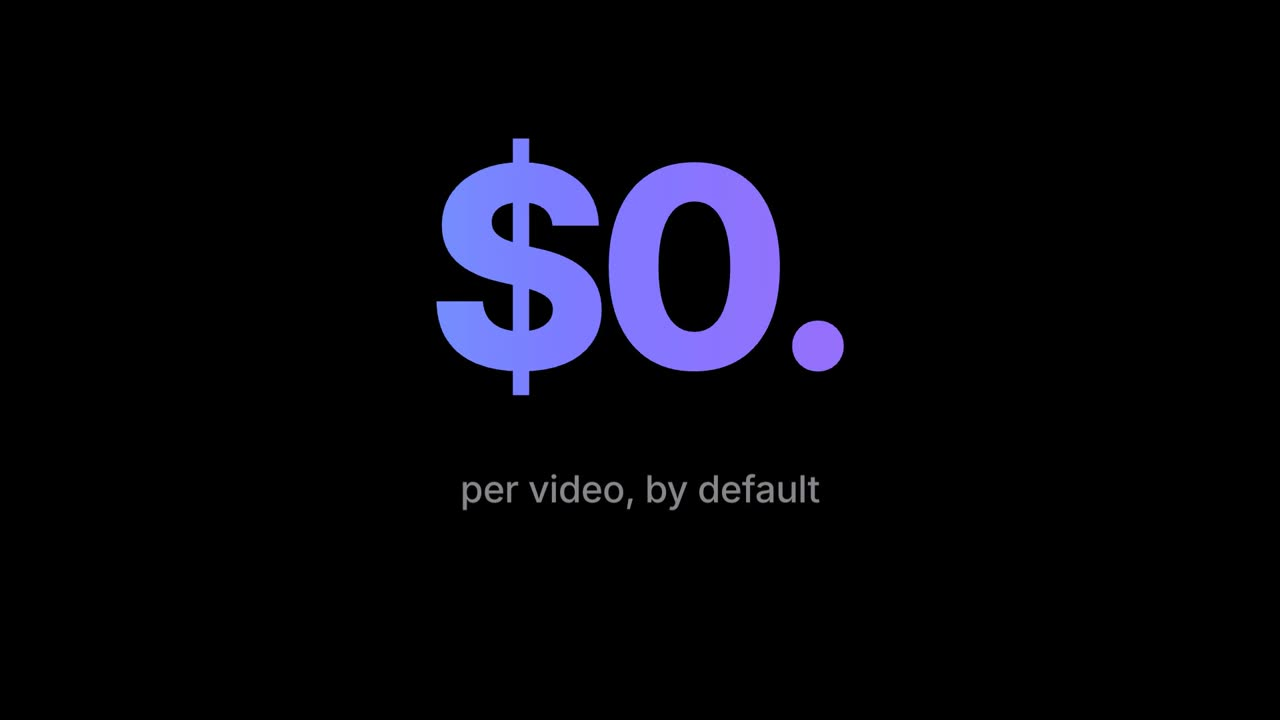
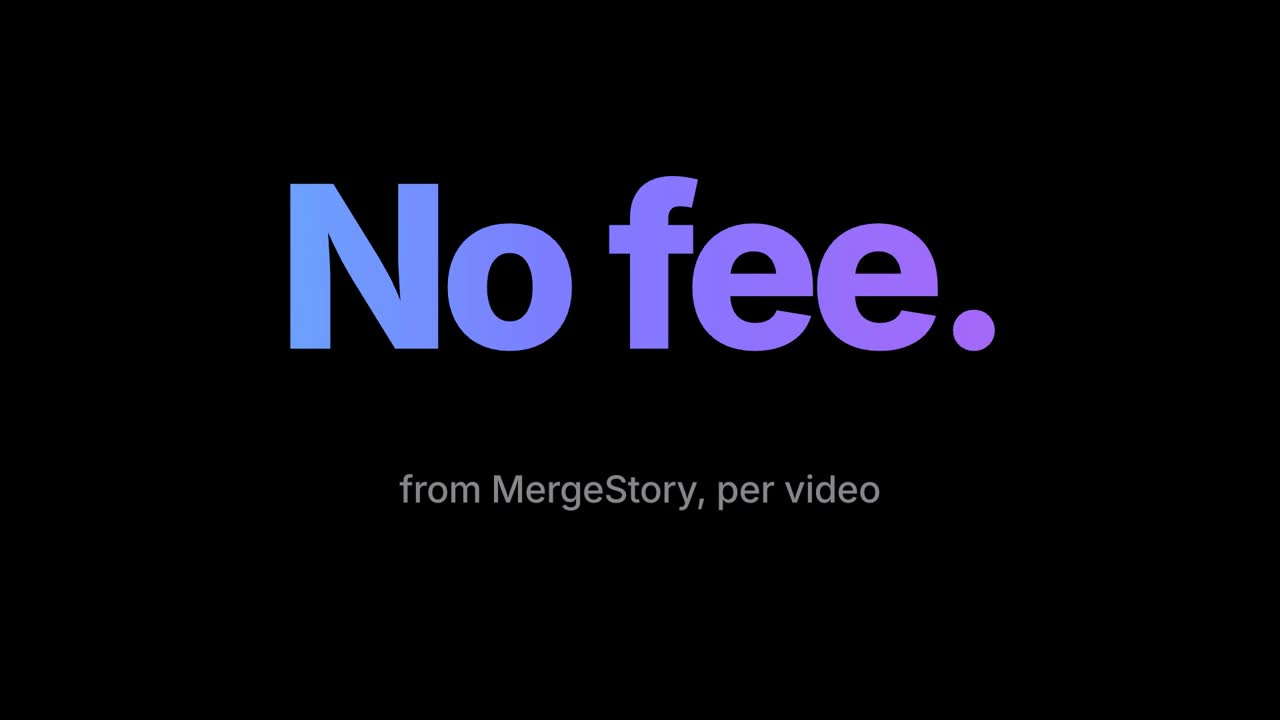
Docs: lead with "No MergeStory fee" and say what the agent's usage costs (#30)
## What changed

- **Website:** the badge and the cost heading say "No MergeStory fee" in
place of "$0". The storyboard card shows about $0.20 in place of
"Varies", with the measured range.
- **README and cost page:** the first lines on cost now name the agent's
usage: about 20 cents per video if you pay per token.
- **Cost film:** the site, the README and the cost page link a new cut
of the film, with a new poster. The new cut says the same as the text:
no fee from MergeStory, and about 20 cents of agent usage per video.

## Why

"$0" was true for MergeStory's own fee. For someone who pays for a
coding agent per token it read as the whole cost, and it is not.

Docs only. No engine change.

Changed region(s): [[0.2188, 0.1833, 0.7812, 0.55], [0.3125, 0.6417, 0.6875, 0.7028]]

diff --git a/docs/index.html b/docs/index.html
@@ -591,7 +591,7 @@ h1 .nl{display:block}h1 .grad.nl{display:table;margin-inline:auto}
 <!-- Hero -->
 <section class="hero" aria-labelledby="h-hero">
 <div class="wrap">
-<a class="eyebrow" href="#cost"><b>New</b><span>$0 per video, by design<sup class="fn-ref" aria-hidden="true">1</sup></span><svg class="i" aria-hidden="true"><use href="#i-right"/></svg></a>
+<a class="eyebrow" href="#cost"><b>New</b><span>No MergeStory fee. About 20 cents of agent usage per video.<sup class="fn-ref" aria-hidden="true">1</sup></span><svg class="i" aria-hidden="true"><use href="#i-right"/></svg></a>
 <h1 id="h-hero"><span class="nl">Every change</span> <span class="grad nl">has a story.</span></h1>
 <p class="lead">MergeStory turns a pull request into a short narrated video. What changed, why, and what to review.</p>
 <p class="sub">Open source, and it runs on your machine.</p>
@@ -876,13 +876,13 @@ h1 .nl{display:block}h1 .grad.nl{display:table;margin-inline:auto}
 <section class="sec" id="cost" aria-labelledby="h-cost">
 <div class="wrap">
 <div class="head rv">
-<h2 id="h-cost">$0. By design.</h2>
-<p class="intro">A default run calls no paid service of its own.<a class="fn-ref" href="#fn-1" aria-label="Note 1">1</a> No account. No key for your first video.</p>
+<h2 id="h-cost">No MergeStory fee. By design.</h2>
+<p class="intro">A default run calls no paid service of its own.<a class="fn-ref" href="#fn-1" aria-label="Note 1">1</a> No account. No key for your first video. The real cost is your coding agent's usage: about 20 cents per video if you pay per token.</p>
 </div>
 <p class="big0 rv" aria-hidden="true"><span class="grad">$0</span></p>
 <p class="big0-l rv"><span class="sr">$0 </span>per video, from MergeStory<a class="fn-ref" href="#fn-1" aria-label="Note 1">1</a></p>
 <ul class="steps5" role="list">
-<li class="rv" style="--d:0"><span class="k">Storyboard</span><span class="v">Varies</span><p class="d">Written by the coding agent you already use. That is extra usage in your session. If you pay per token, your agent's provider bills it.<a class="fn-ref" href="#fn-1" aria-label="Note 1">1</a></p></li>
+<li class="rv" style="--d:0"><span class="k">Storyboard</span><span class="v">~$0.20</span><p class="d">Written by the coding agent you already use. That is extra usage in your session. If you pay per token, your agent's provider bills it: we measured roughly $0.15 to $0.45 per video with a Sonnet-class agent. On a subscription plan it counts toward your usage limits.<a class="fn-ref" href="#fn-1" aria-label="Note 1">1</a></p></li>
 <li class="rv" style="--d:1"><span class="k">Voice</span><span class="v">$0</span><p class="d">Kokoro, an open English voice that runs on your own CPU. Installed once: about 400 MB, plus the voice model.</p></li>
 <li class="rv" style="--d:2"><span class="k">Rendering</span><span class="v">$0</span><p class="d">Your own browser draws each frame. FFmpeg encodes. In CI, it uses your CI minutes.<a class="fn-ref" href="#fn-1" aria-label="Note 1">1</a></p></li>
 <li class="rv" style="--d:3"><span class="k">Checks</span><span class="v">$0</span><p class="d">Every claim and line reference is checked on your machine.</p></li>
@@ -933,15 +933,15 @@ h1 .nl{display:block}h1 .grad.nl{display:table;margin-inline:auto}
 <p>MergeStory checks its estimate before each paid model or voice call and does not make a call that would go over. A model with an unknown price is counted at the highest rate. It is a safeguard, not a guarantee of your final bill.<a class="fn-ref" href="#fn-3" aria-label="Note 3">3</a> Change it with <code class="nw">--budget</code>.</p></div>
 </div>
 
-<figure class="film small cost-film rv" data-yt="6X5-zCe8PbU" data-title="MergeStory: what it costs and why (film)">
+<figure class="film small cost-film rv" data-yt="qdXa9S12tpg" data-title="MergeStory: what it costs and why (film)">
 <div class="shot">
-<a class="poster p-cost" href="https://www.youtube.com/watch?v=6X5-zCe8PbU" target="_blank" rel="noopener"><span class="bigplay"><svg class="i" aria-hidden="true"><use href="#i-play"/></svg>Play the cost film<span class="sr"> (opens YouTube)</span></span></a>
+<a class="poster p-cost" href="https://www.youtube.com/watch?v=qdXa9S12tpg" target="_blank" rel="noopener"><span class="bigplay"><svg class="i" aria-hidden="true"><use href="#i-play"/></svg>Play the cost film<span class="sr"> (opens YouTube)</span></span></a>
 </div>
 <div class="film-bar">
 <button type="button" class="ctl vbtn" hidden><svg class="i" aria-hidden="true"><use href="#i-play"/></svg><span>Play</span><span class="sr"> the cost film</span></button>
 <button type="button" class="ctl cc" aria-pressed="false" title="Start with captions on" hidden><svg class="i" aria-hidden="true"><use href="#i-cc"/></svg><span class="ccl" aria-hidden="true">Captions</span><span class="sr">Start with captions on</span></button>
 <button type="button" class="ctl fs" title="Full screen" hidden><svg class="i" aria-hidden="true"><use href="#i-fs"/></svg><span class="fsl">Full screen</span><span class="sr"> (play the cost film in full screen)</span></button>
-<a class="ctl yt" href="https://www.youtube.com/watch?v=6X5-zCe8PbU" target="_blank" rel="noopener">Watch on YouTube<span class="sr"> (opens a new tab)</span></a>
+<a class="ctl yt" href="https://www.youtube.com/watch?v=qdXa9S12tpg" target="_blank" rel="noopener">Watch on YouTube<span class="sr"> (opens a new tab)</span></a>
 </div>
 </figure>
 <p class="film-note rv">The film shows the default settings. Your coding agent's usage, storage and CI minutes can still cost money.<a class="fn-ref" href="#fn-1" aria-label="Note 1">1</a></p>
@@ -1136,7 +1136,7 @@ h1 .nl{display:block}h1 .grad.nl{display:table;margin-inline:auto}
 </details>
 <details>
 <summary>What does it cost?</summary>
-<div class="a"><p>MergeStory charges nothing, and a default run calls no paid service.<a class="fn-ref" href="#fn-1" aria-label="Note 1">1</a> You may still pay others for your coding agent's usage, storage, CI minutes and any model or cloud voice you turn on. If you opt in to a model for the storyboard, Claude Haiku 5.5 is estimated at under $0.01 per video.<a class="fn-ref" href="#fn-2" aria-label="Note 2">2</a> Cloud voices are priced per million characters. A budget of $0.25 per run is checked before every paid call.<a class="fn-ref" href="#fn-3" aria-label="Note 3">3</a> <a href="#cost">See the full cost</a>.</p></div>
+<div class="a"><p>MergeStory charges nothing, and a default run calls no paid service.<a class="fn-ref" href="#fn-1" aria-label="Note 1">1</a> You may still pay others for your coding agent's usage (about 20 cents per video in our measurements, if you pay per token), storage, CI minutes and any model or cloud voice you turn on. If you opt in to a model for the storyboard, Claude Haiku 5.5 is estimated at under $0.01 per video.<a class="fn-ref" href="#fn-2" aria-label="Note 2">2</a> Cloud voices are priced per million characters. A budget of $0.25 per run is checked before every paid call.<a class="fn-ref" href="#fn-3" aria-label="Note 3">3</a> <a href="#cost">See the full cost</a>.</p></div>
 </details>
 <details>
 <summary>Which agents does it work with?</summary>

diff --git a/README.md b/README.md
@@ -32,9 +32,10 @@ Every narration line cites evidence from the change. Code on screen is read from
 
 Claims nobody can check, like "all tests pass", are removed unless real test results were supplied.
 
-## $0. By design.
+## No MergeStory fee. By design.
 
-By default, MergeStory itself calls no paid service.[^cost] [See what it costs and why.](#what-it-costs)
+By default, MergeStory itself calls no paid service.[^cost] The real cost is your coding agent's usage:
+about 20 cents per video if you pay per token. [See what it costs and why.](#what-it-costs)
 
 ## Private by default.
 
@@ -222,7 +223,7 @@ paid call. To cap your real bill, set a spending limit or alert with each provid
 
 Read [the full cost breakdown](docs/cost.md).
 
-▶ [Watch the 70-second film on what it costs.](https://www.youtube.com/watch?v=6X5-zCe8PbU) It shows the
+▶ [Watch the short film on what it costs.](https://www.youtube.com/watch?v=qdXa9S12tpg) It shows the
 default settings. See [what can still cost money](docs/cost.md#what-can-still-cost-money).
 
 ## Privacy and security

diff --git a/docs/cost.md b/docs/cost.md
@@ -1,9 +1,11 @@
 # What MergeStory costs
 
-**$0 per video from MergeStory.** By default MergeStory calls no paid service. Other things can still cost you
+**$0 per video from MergeStory.** By default MergeStory calls no paid service. The real cost is your coding
+agent's usage: about 20 cents per video if you pay per token. See
+[what the agent's usage looks like](#what-the-agents-usage-looks-like). Other things can still cost you
 money: see [What can still cost money](#what-can-still-cost-money).
 
-▶ [Watch the 70-second film on what it costs.](https://www.youtube.com/watch?v=6X5-zCe8PbU) It shows the default
+▶ [Watch the short film on what it costs.](https://www.youtube.com/watch?v=qdXa9S12tpg) It shows the default
 settings.
 
 ## Step by step

diff --git a/CHANGELOG.md b/CHANGELOG.md
@@ -24,6 +24,9 @@ All notable changes to MergeStory are listed here, newest first.
   when the same session wrote the change.
   The website and the plugin README no longer say "often more than 10,000 tokens".
 - The website says that the checks do not prove every sentence is right.
+- The website and the README lead with "No MergeStory fee" and say what the agent's usage costs:
+  about 20 cents per video if you pay per token. The "$0" headline is gone. The cost film is a
+  new cut that says the same.
 
 ## 1.4.1
 
